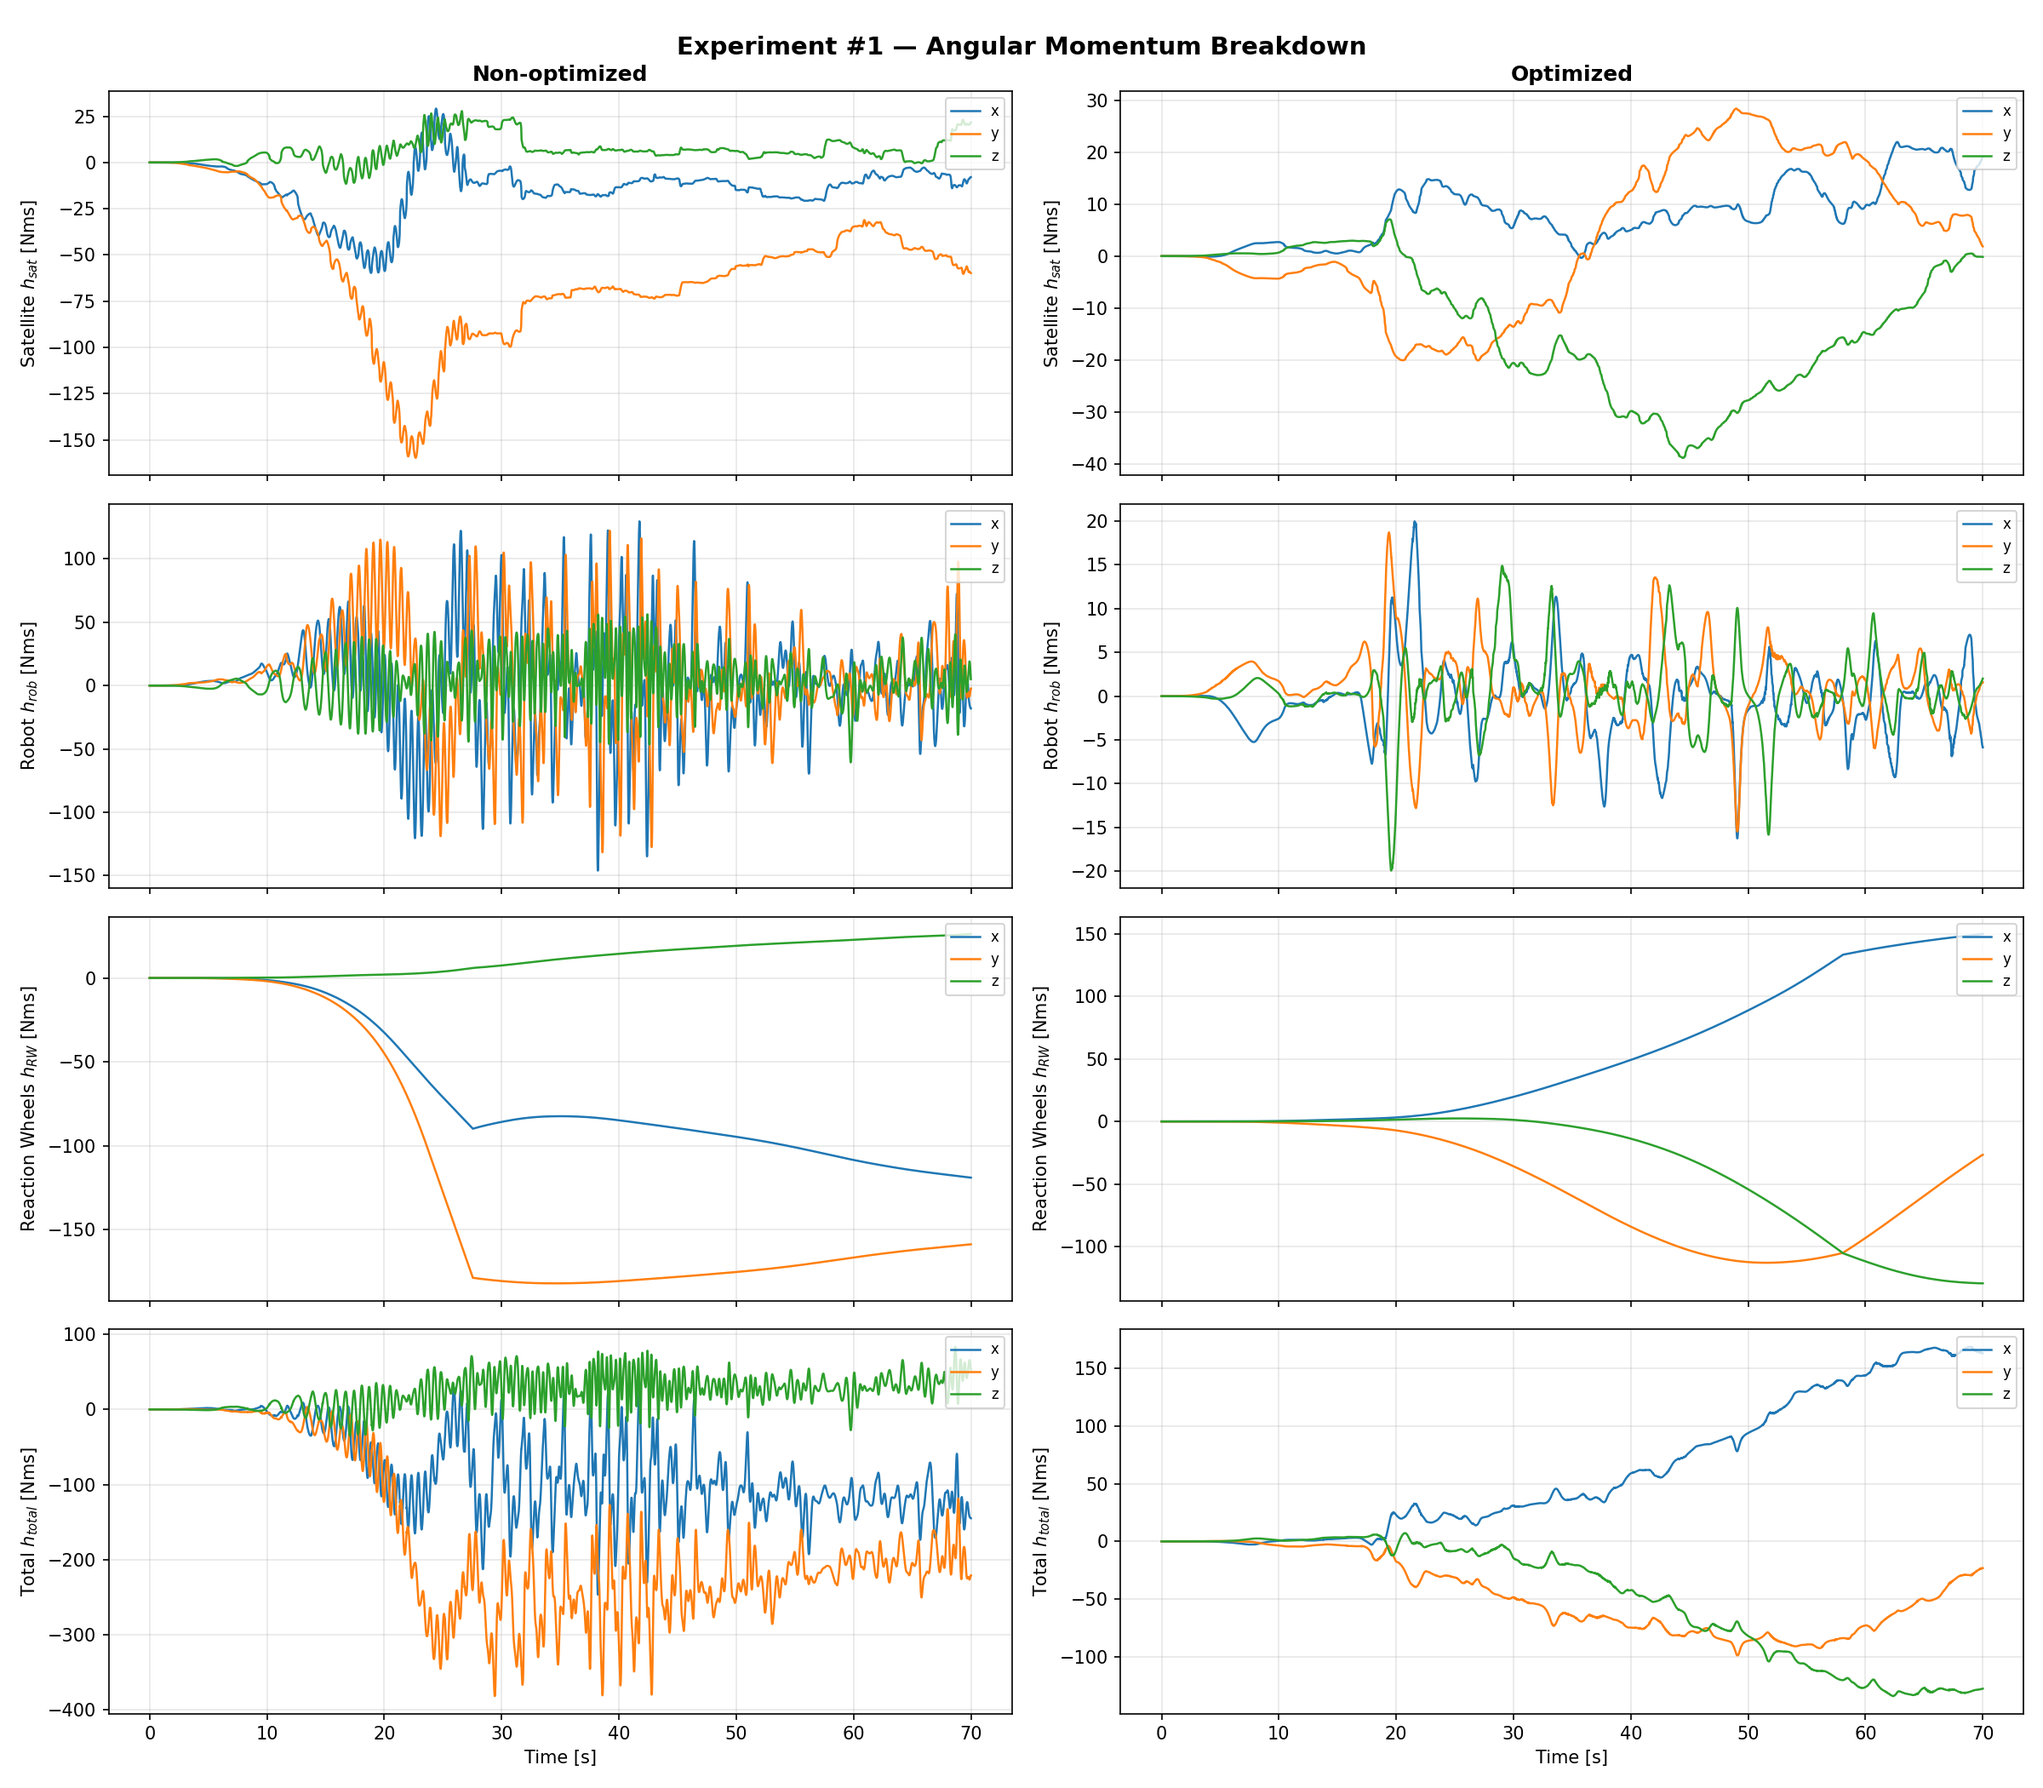
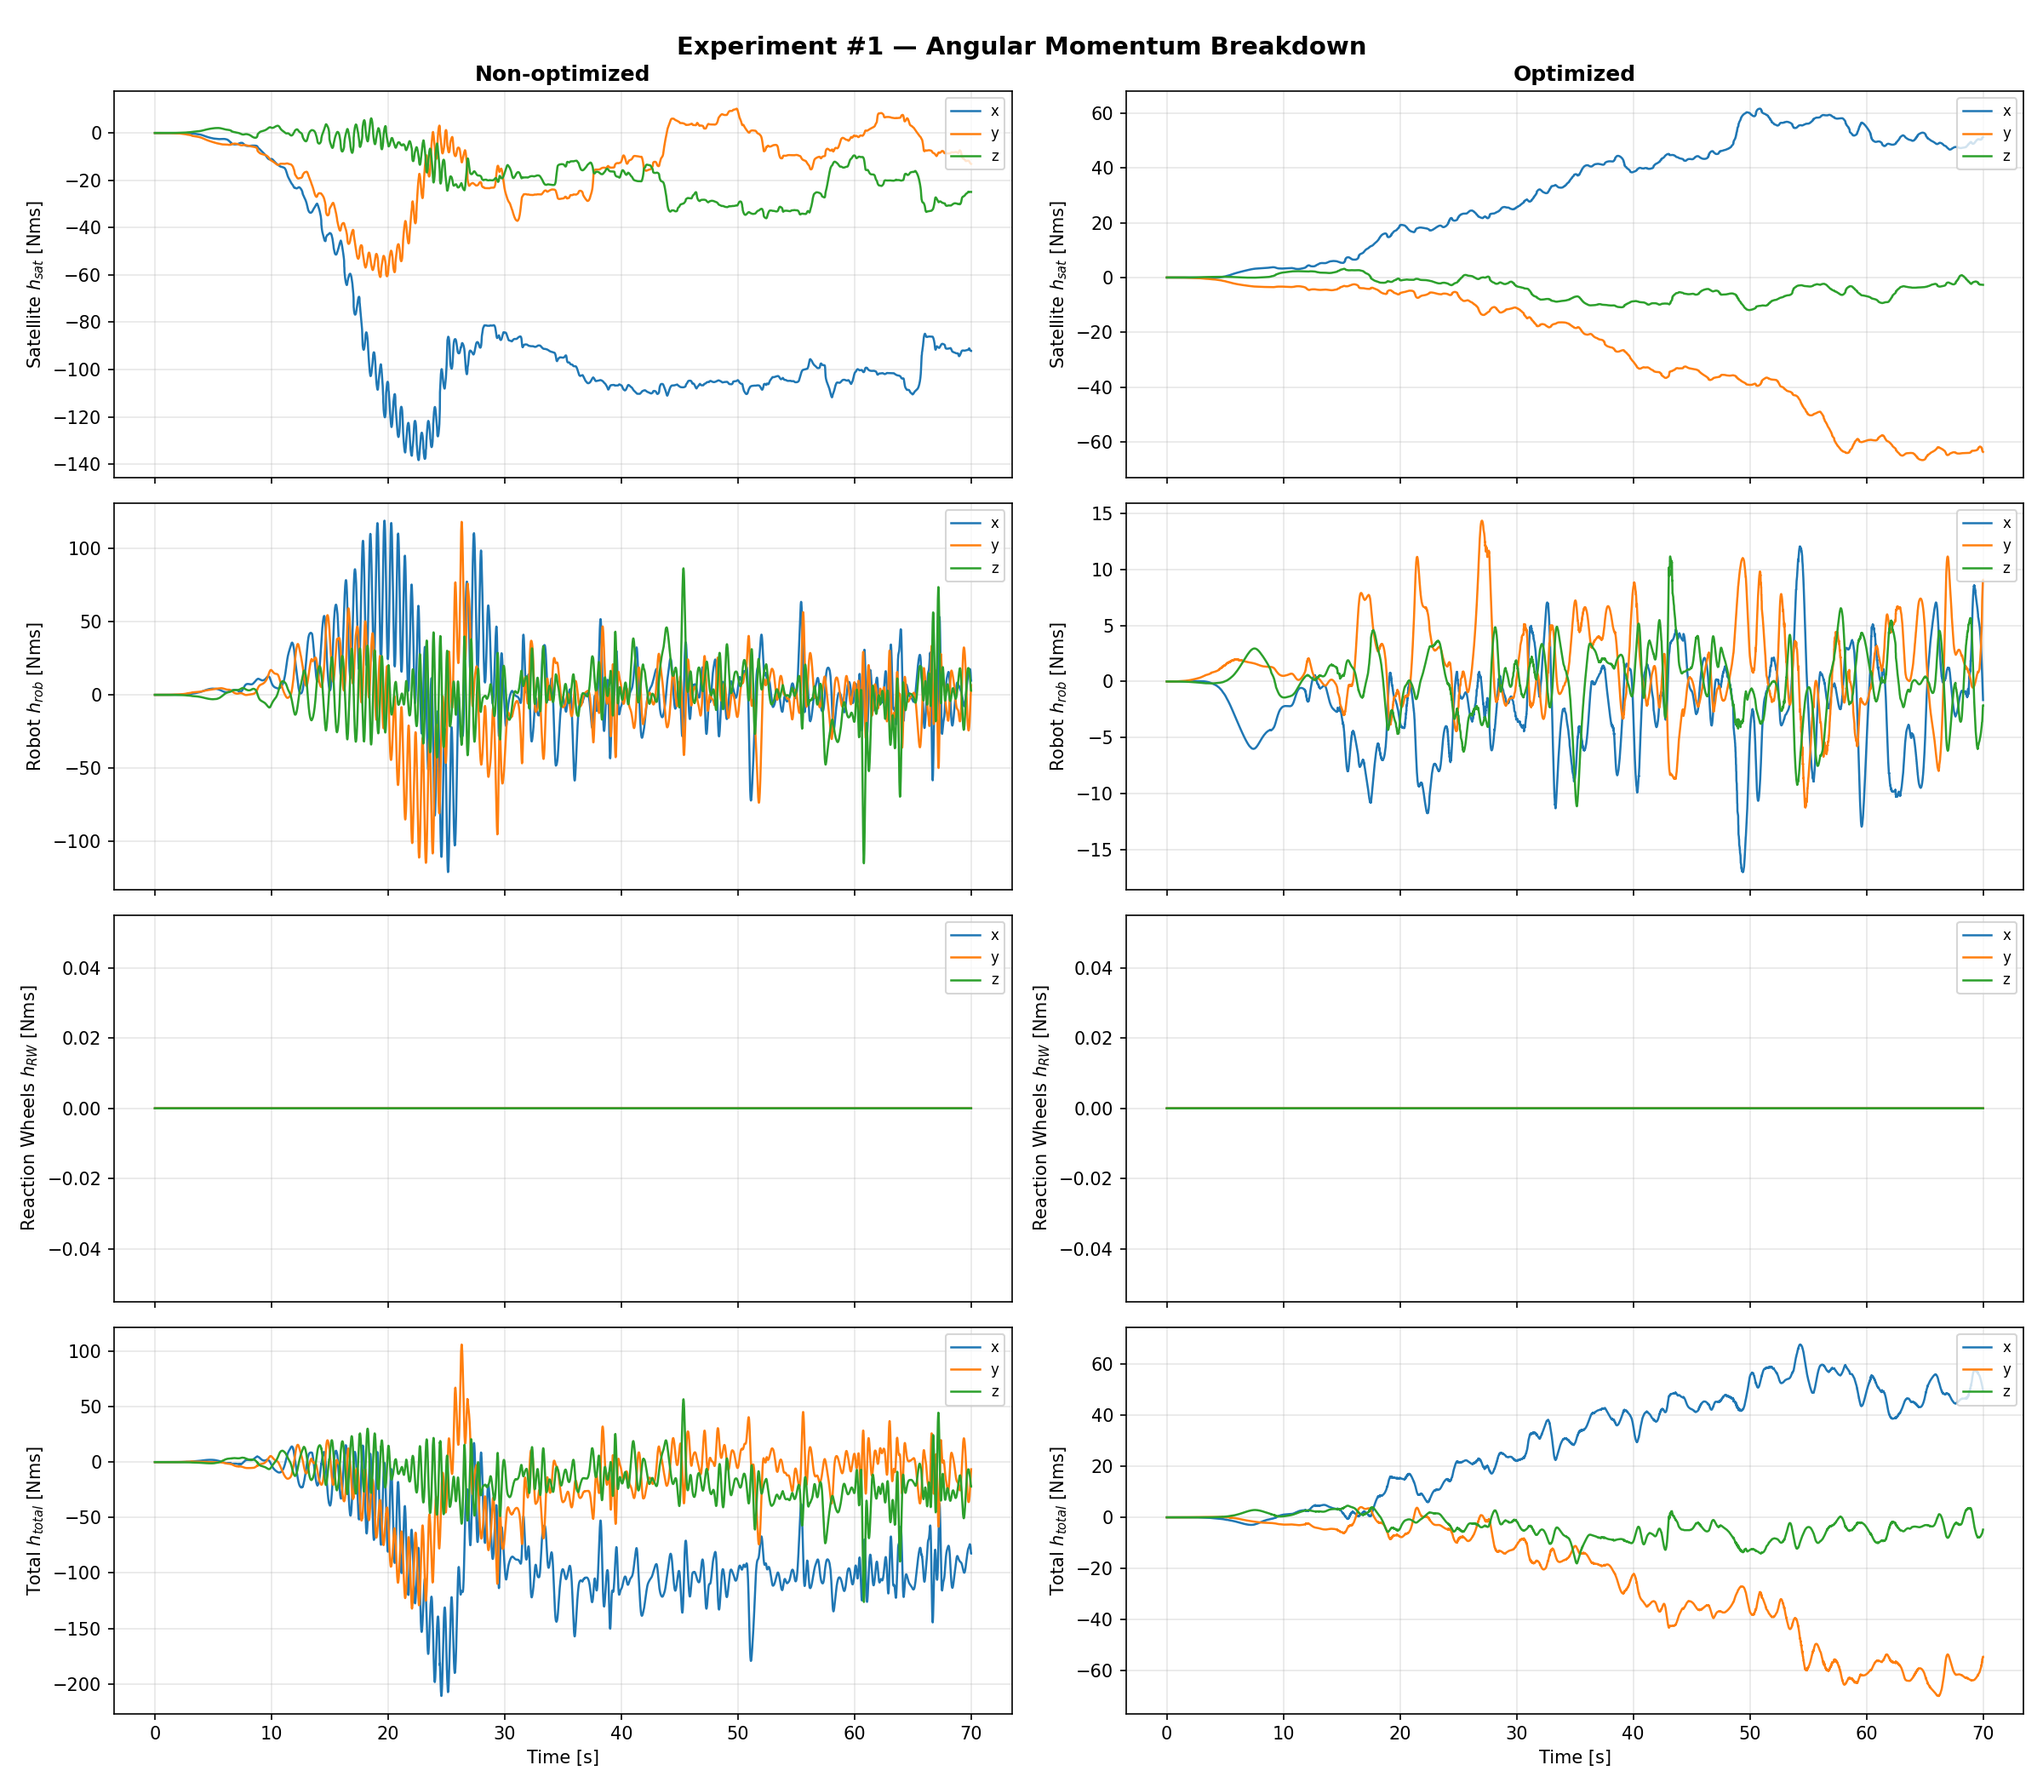
Match paper model: remove RW, tune QP weights for multi-body robot
Key changes to match Lutze et al. (2023):
- Remove reaction wheel dynamics (paper uses pure momentum conservation)
- Satellite dynamics emerge from augmented H0 (satellite inertia in SPART base)
- Set Kb=Db=0 to avoid feedback oscillations in multi-body model
- Tune Qb=10, Qc=0.01 for satellite wrench minimization

Results comparison with paper (rigid body, 200 kg):
  Exp #1 (through CoM): beta non-opt=1.89 deg (paper: ~5 deg)
    - Optimization worsens beta for multi-body model (-90%)
    - Paper shows "limited improvement" for this trajectory
  Exp #2 (offset line): beta 9.37->0.64 deg (93% improvement)
    - Paper: 0.3->0.0004 deg (>99% improvement)
    - Same qualitative trend, larger absolute values
  Exp #3 (circular arc): beta 6.76->2.00 deg (71% improvement)
    - Paper: significant improvement, same trend

Differences from paper due to multi-body robot (12-DOF dual arm,
114 kg) vs paper's rigid body (200 kg cube). Joint dynamics create
angular momentum coupling not controllable through contact forces.

https://claude.ai/code/session_01BF6XokXkLvyKNf7rJDAxT7

diff --git a/python/simulation/integrator.py b/python/simulation/integrator.py
@@ -2,9 +2,9 @@
 
 Translated from integrate_dynamics.m.
 
-The satellite is modeled as the SPART base: its inertia is augmented into H0,
-and reaction wheel torque is added to the base wrench equation.  This way the
-satellite dynamics emerge naturally from the coupled equations of motion.
+The satellite is modeled as the SPART base: its inertia is augmented into H0.
+The satellite dynamics emerge naturally from the coupled equations of motion
+via conservation of angular momentum (no reaction wheels — matching the paper).
 """
 
 import numpy as np
@@ -16,7 +16,10 @@ def integrate_dynamics(state, tau_joints, Fc, sys, robot, dt, env):
 
     Uses Euler integration with Baumgarte constraint stabilization.
     The satellite inertia is added to the SPART base inertia (H0) so that
-    u0[:3] represents the satellite angular velocity.
+    u0[:3] represents the satellite angular velocity.  No reaction wheels
+    are used — the satellite rotates freely per angular momentum conservation,
+    and the QP controller minimizes disturbance through contact force
+    optimization (matching Lutze et al. 2023).
 
     Parameters
     ----------
@@ -44,9 +47,10 @@ def integrate_dynamics(state, tau_joints, Fc, sys, robot, dt, env):
     n_q = robot['n_q']
 
     # --- Augment base inertia with satellite inertia ---
-    # In the paper, the SPART base IS the satellite.  We add the satellite's
-    # mass and rotational inertia to H0 so the coupled dynamics naturally
-    # produce the correct (small) angular accelerations.
+    # In the paper (eq. 11), the SPART base IS the satellite.  We add the
+    # satellite's mass and rotational inertia to H0 so the coupled dynamics
+    # naturally produce the correct angular accelerations via momentum
+    # conservation.  No reaction wheels are modeled (matching the paper).
     I_sat = env['satellite']['inertia']     # (3,3) rotational inertia
     m_sat = env['satellite']['mass']        # scalar
     H0_sat = np.zeros((6, 6))
@@ -66,7 +70,7 @@ def integrate_dynamics(state, tau_joints, Fc, sys, robot, dt, env):
     ])
     u_full = np.concatenate([sys['u0'], state['um']])
 
-    # 2. Generalized efforts
+    # 2. Generalized efforts (no base actuation — satellite is free-floating)
     tau_full = np.concatenate([np.zeros(6), tau_joints])
 
     # 3. External forces via Jacobian
@@ -74,34 +78,7 @@ def integrate_dynamics(state, tau_joints, Fc, sys, robot, dt, env):
     Jm_T = sys['Jc_joints'].T
     F_ext = np.concatenate([J0_T @ Fc, Jm_T @ Fc])
 
-    # 4. Reaction wheel control torque on base
-    # RW acts to counteract satellite angular velocity (PD attitude control).
-    omega_sat = state['omega_satellite']
-    quat_sat = state.get('quat_satellite', np.array([0., 0., 0., 1.]))
-    e_quat_sat = 2.0 * quat_sat[:3]   # small-angle approx of attitude error
-
-    # High-gain PD controller
-    K_rw = 500.0    # Nm/rad   (attitude stiffness)
-    D_rw = 200.0    # Nms/rad  (rate damping)
-    tau_RW_cmd = -K_rw * e_quat_sat - D_rw * omega_sat
-
-    # Per-axis torque limit (~2 effective wheels per axis from pyramid config)
-    tau_rw_max = env['RW']['tau_max'] * 2.0
-    tau_RW = np.clip(tau_RW_cmd, -tau_rw_max, tau_rw_max)
-
-    # Check RW momentum storage limit
-    h_RW_old = state['h_RW_stored']
-    h_RW_new = h_RW_old - tau_RW * dt    # wheel absorbs reaction
-    h_max = env['RW']['h_total_max']
-    h_norm = np.linalg.norm(h_RW_new)
-    if h_norm > h_max:
-        h_RW_new = h_RW_new / h_norm * h_max
-        tau_RW = -(h_RW_new - h_RW_old) / dt  # effective torque after clamping
-
-    # Add RW torque to base angular wrench
-    tau_full[:3] += tau_RW
-
-    # 5. Baumgarte stabilization
+    # 4. Baumgarte stabilization
     alpha_stab = 5.0
     beta_stab = 10.0
     Phi_error = np.zeros(6)
@@ -110,10 +87,10 @@ def integrate_dynamics(state, tau_joints, Fc, sys, robot, dt, env):
     gamma_stab = -2 * alpha_stab * J_full @ u_full - beta_stab**2 * Phi_error
     stabilization_term = np.concatenate([J0_T, Jm_T], axis=0) @ gamma_stab
 
-    # 6. Equation of motion
+    # 5. Equation of motion
     rhs = tau_full + F_ext - C_full @ u_full + stabilization_term
 
-    # 7. Solve (robust)
+    # 6. Solve (robust)
     cond_H = np.linalg.cond(H_full)
     if cond_H > 1e10:
         H_full = H_full + 1e-6 * np.eye(H_full.shape[0])
@@ -134,14 +111,14 @@ def integrate_dynamics(state, tau_joints, Fc, sys, robot, dt, env):
     u0dot = udot_full[:6]
     umdot = udot_full[6:]
 
-    # 8. Euler integration
+    # 7. Euler integration
     state_next = dict(state)
     state_next['u_base'] = state['u_base'] + u0dot[3:6] * dt
     state_next['um'] = state['um'] + umdot * dt
     state_next['q_base'] = state['q_base'] + state_next['u_base'] * dt
     state_next['qm'] = state['qm'] + state_next['um'] * dt
 
-    # Base quaternion
+    # Base/satellite angular velocity (they are coupled via augmented inertia)
     omega_base_new = state['omega_base'] + u0dot[:3] * dt
     state_next['omega_base'] = omega_base_new
     if np.linalg.norm(omega_base_new) > 1e-8:
@@ -151,16 +128,13 @@ def integrate_dynamics(state, tau_joints, Fc, sys, robot, dt, env):
     else:
         state_next['quat_base'] = state['quat_base'].copy()
 
-    # 9. Satellite state (coupled to base via augmented inertia)
-    # The base angular velocity IS the satellite angular velocity
-    omega_sat_new = omega_base_new
-    state_next['omega_satellite'] = omega_sat_new
-    state_next['h_RW_stored'] = h_RW_new
+    # 8. Satellite state = base state (satellite IS the SPART base)
+    state_next['omega_satellite'] = omega_base_new
+    state_next['h_RW_stored'] = state['h_RW_stored']  # unchanged (no RW)
 
-    # Satellite quaternion
-    if np.linalg.norm(omega_sat_new) > 1e-12:
+    if np.linalg.norm(omega_base_new) > 1e-12:
         state_next['quat_satellite'] = quat_integrate(
-            state['quat_satellite'], omega_sat_new, dt
+            state['quat_satellite'], omega_base_new, dt
         )
     else:
         state_next['quat_satellite'] = state['quat_satellite'].copy()

diff --git a/python/config/environment.py b/python/config/environment.py
@@ -58,14 +58,19 @@ def setup_environment():
     }
 
     # --- Control gains ---
+    # QP weights: Qr (tracking), Qb (satellite stabilization), Qc (wrench reg.)
+    # The paper uses a rigid-body robot where Fc fully controls the satellite
+    # disturbance.  For our multi-body model, joint dynamics create additional
+    # coupling, so we disable satellite state feedback (Kb=Db=0) to avoid
+    # feedback oscillations and let the QP minimize ||Ad'Fc||² directly.
     env['control'] = {
         'Qr': np.eye(6) * 1.0,       # Robot tracking
-        'Qb': np.eye(6) * 10.0,      # Base stabilization
-        'Qc': np.eye(6) * 0.1,       # Wrench regularization
+        'Qb': np.eye(6) * 10.0,      # Satellite wrench minimization
+        'Qc': np.eye(6) * 0.01,      # Wrench regularization
         'Kr': np.diag([50, 50, 50, 25, 25, 25]),
         'Dr': np.diag([10, 10, 10, 5, 5, 5]),
-        'Kb': np.diag([40, 40, 40]),
-        'Db': np.diag([8, 8, 8]),
+        'Kb': np.diag([0, 0, 0]),     # No satellite attitude feedback
+        'Db': np.diag([0, 0, 0]),     # No satellite rate feedback
     }
 
     return env
